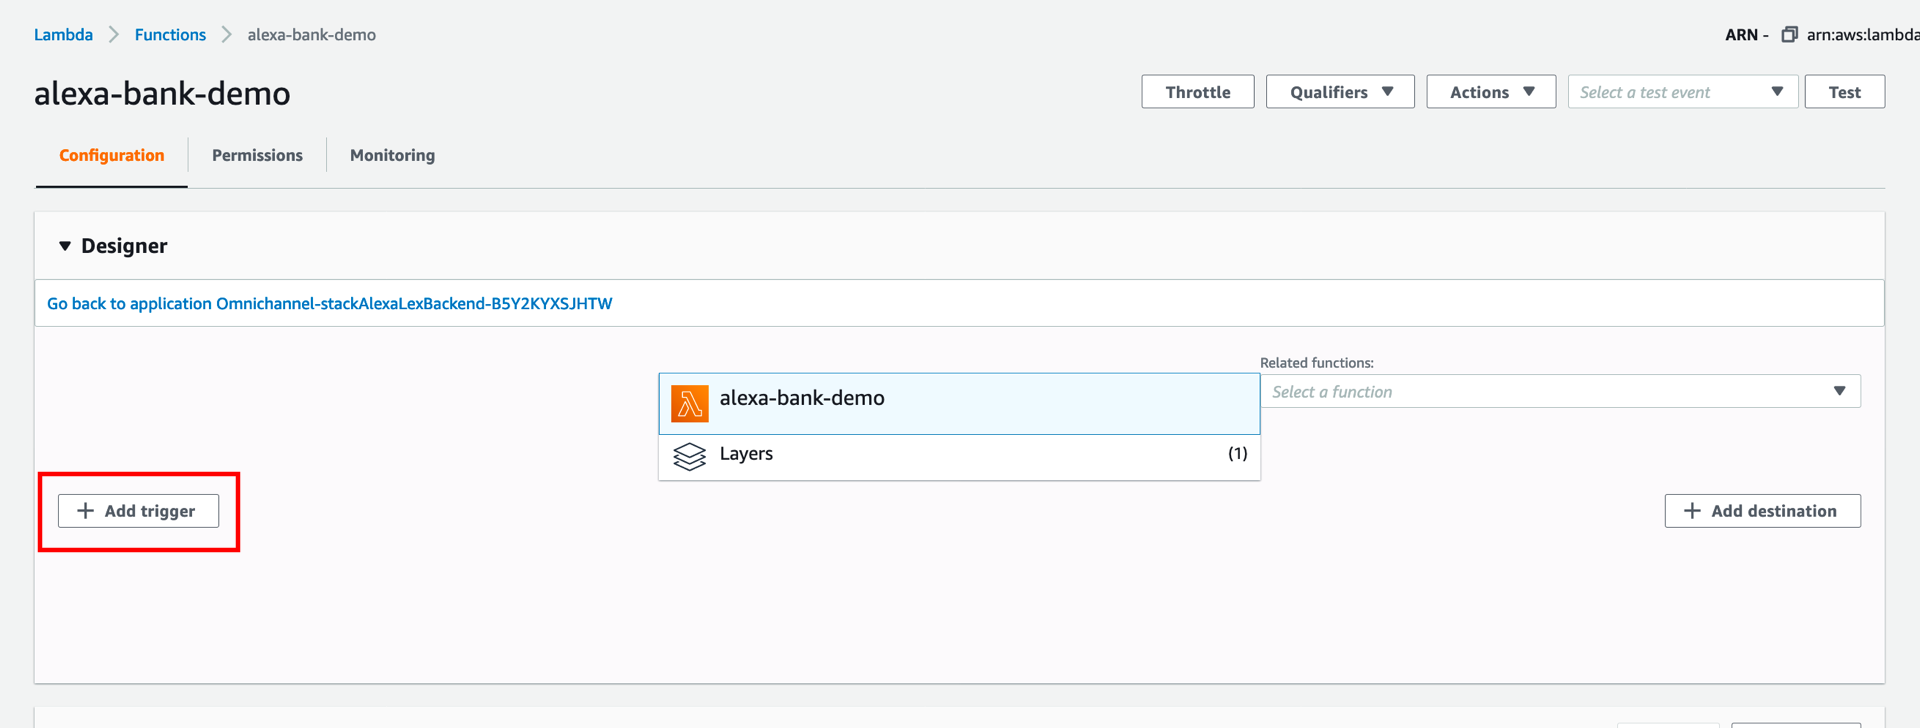
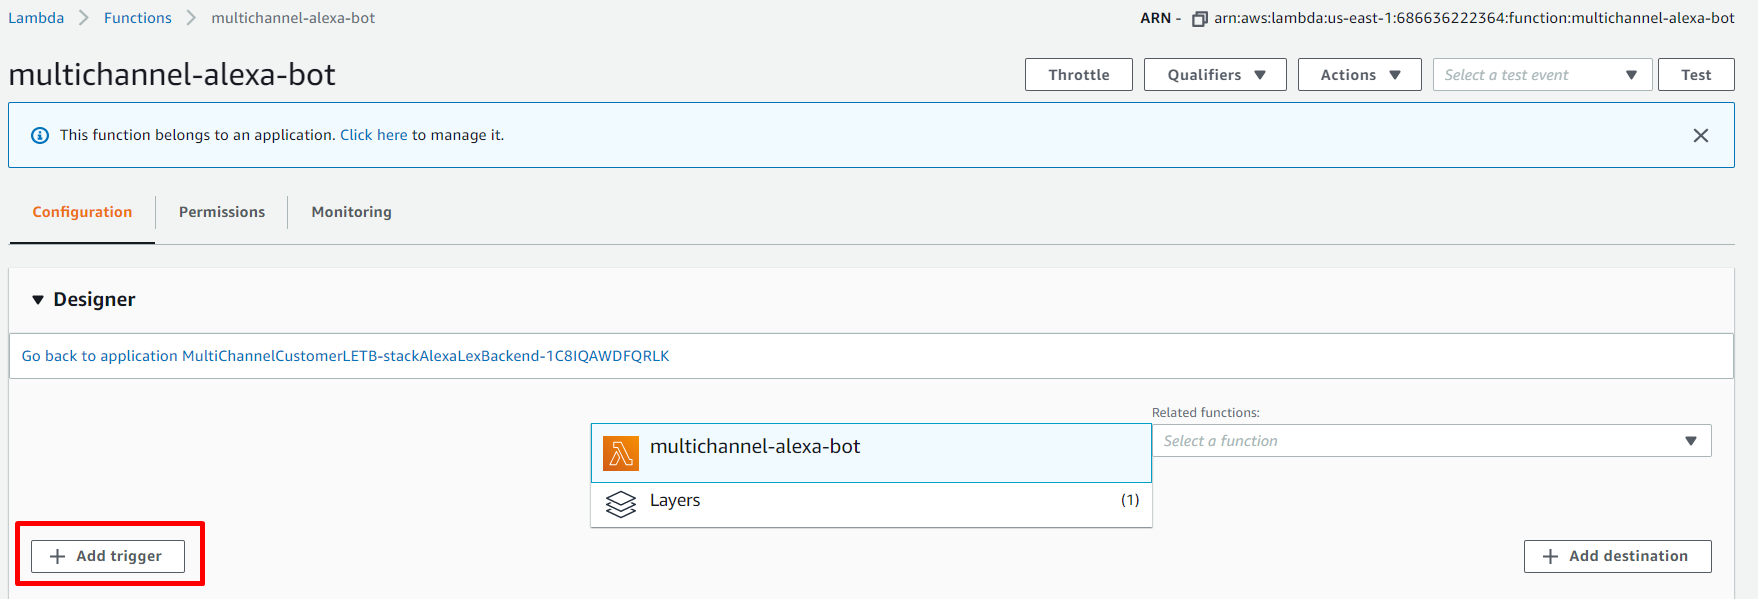
AlexaSkillChanges_EndpointsImages

diff --git a/deployment-guide/03_AlexaSkill/README.md b/deployment-guide/03_AlexaSkill/README.md
@@ -53,7 +53,7 @@ slots and other attributes manually, however, we already use the interaction mod
 
 ![](./images/Endpoint2.png)
 
-13. Open your **AWS Console** - **AWS Lambda**, Search **alexa-bank-demo** Lambda Function, and click **Add Trigger** to enable your Alexa Skill call the Lambda Function
+13. Into another browser tab, open your **AWS Console**, then search for the **AWS Lambda** services, after this look for the **multichannel-alexa-bot** Lambda Function. It will open the function console editor, then click into the **Add Trigger** button to enable your Alexa Skill call the Lambda Function.
 
 ![](./images/Endpoint3.png)
 
